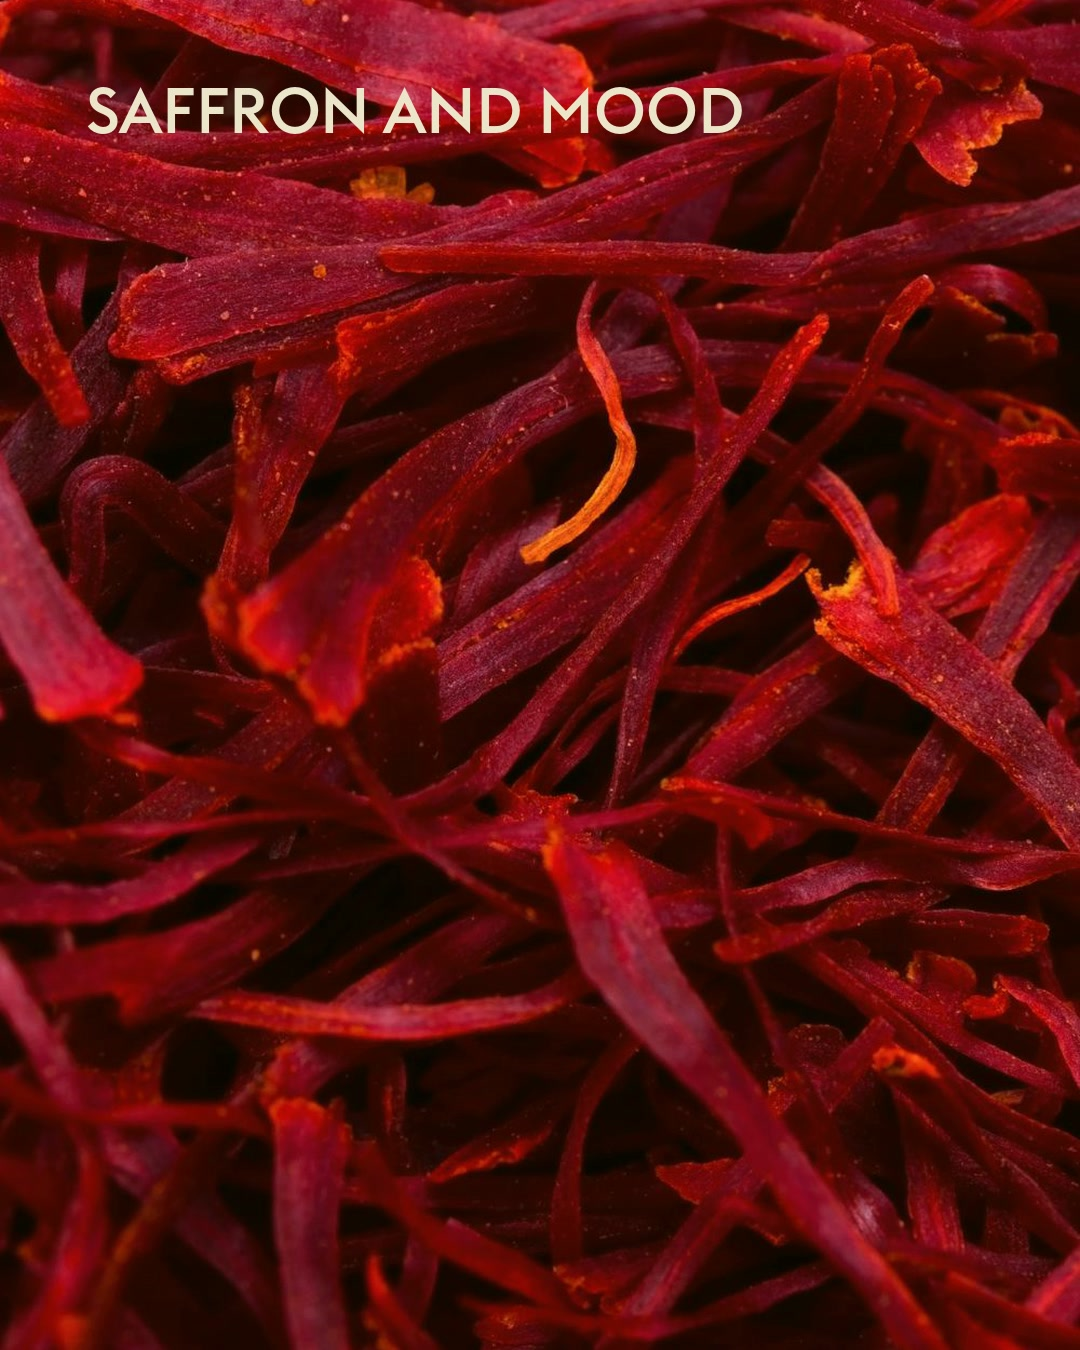
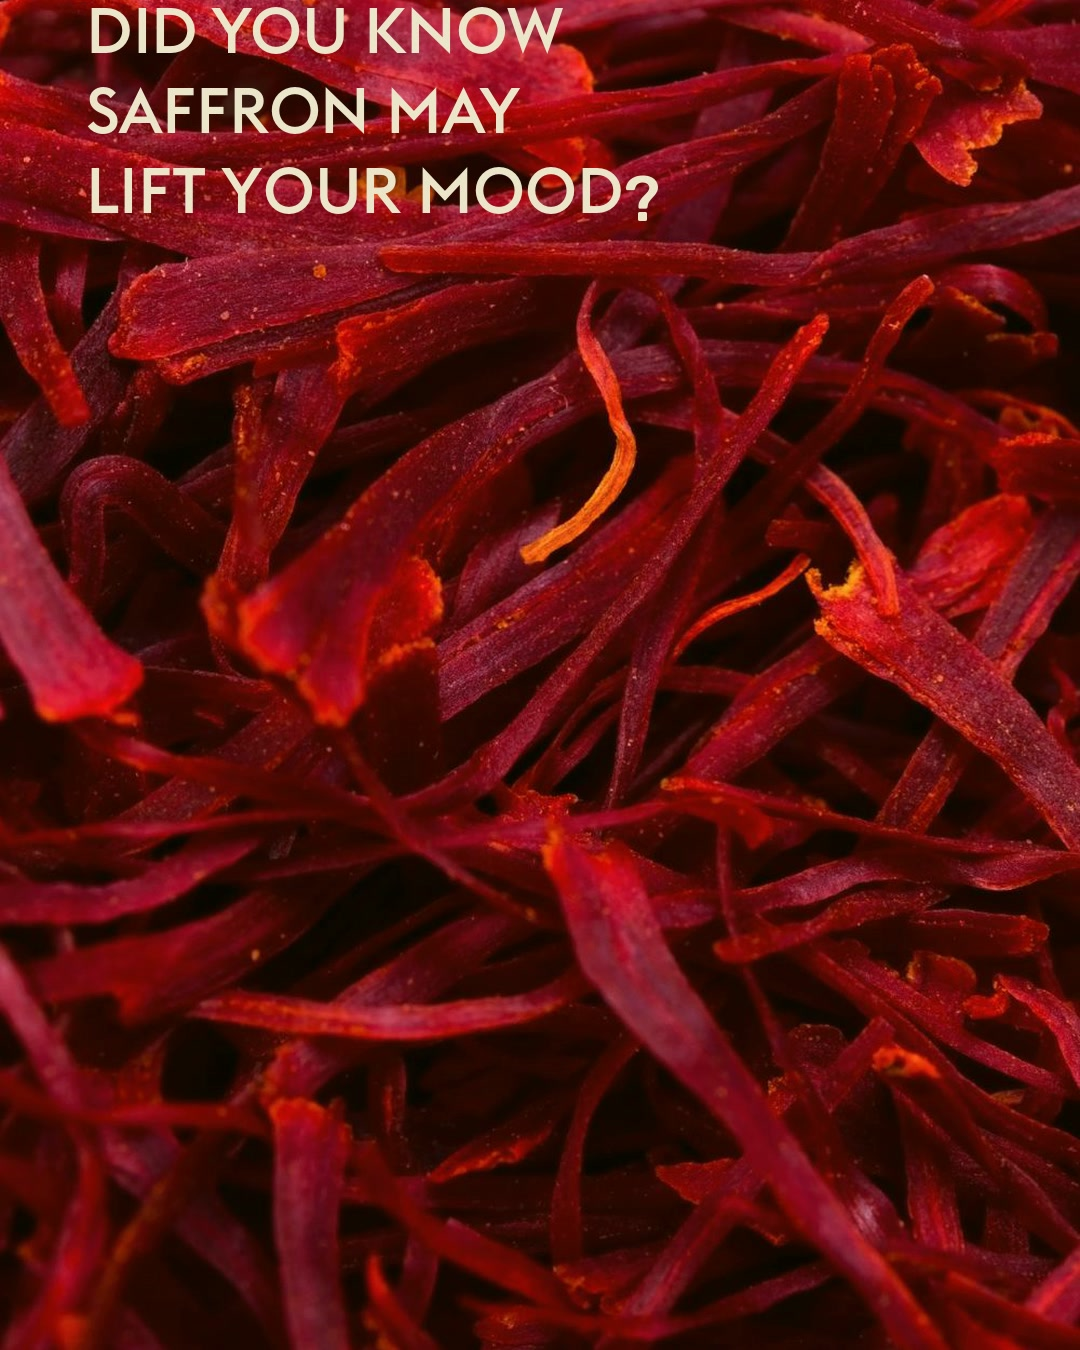
Carousel cover: did you know line
Claude-Session: https://claude.ai/code/session_01QXg58zv2dv92Xb4TMBN6aT

Changed region(s): [[0.0611, 0.0, 0.7028, 0.1556]]

diff --git a/pitch/2026-11-25-zafra-call/examples/03-carousel-saffron-and-mood/README.md b/pitch/2026-11-25-zafra-call/examples/03-carousel-saffron-and-mood/README.md
@@ -4,7 +4,7 @@ Rhode-style carousel, 5 slides, 2 of them video. Topic set by Emi (2026-11-25): 
 
 | Slide | Media | Source | Text |
 |---|---|---|---|
-| 1 Cover | Photo | finds/saffron-stills/still-01 (placeholder) | SAFFRON AND MOOD |
+| 1 Cover | Photo | finds/saffron-stills/still-01 (placeholder) | DID YOU KNOW SAFFRON MAY LIFT YOUR MOOD? |
 | 2 | Video 6 s | finds/saffron/saffron-05 aerial pickers (placeholder) | BY HAND: Saffron is the red thread of the purple crocus, harvested by hand in a ritual centuries old. |
 | 3 | Photo | finds/saffron-stills/still-07 hands (placeholder) | THE COMPOUNDS: Its colour comes from crocin, its aroma from safranal. Researchers are studying how these compounds relate to mood and stress. |
 | 4 | Video 3 s | finds/saffron/saffron-06 petals falling onto threads (placeholder) | THE RESEARCH: In clinical trials, standardised saffron extracts of around 28 to 30 mg a day showed modest improvements in low mood compared with placebo. |
